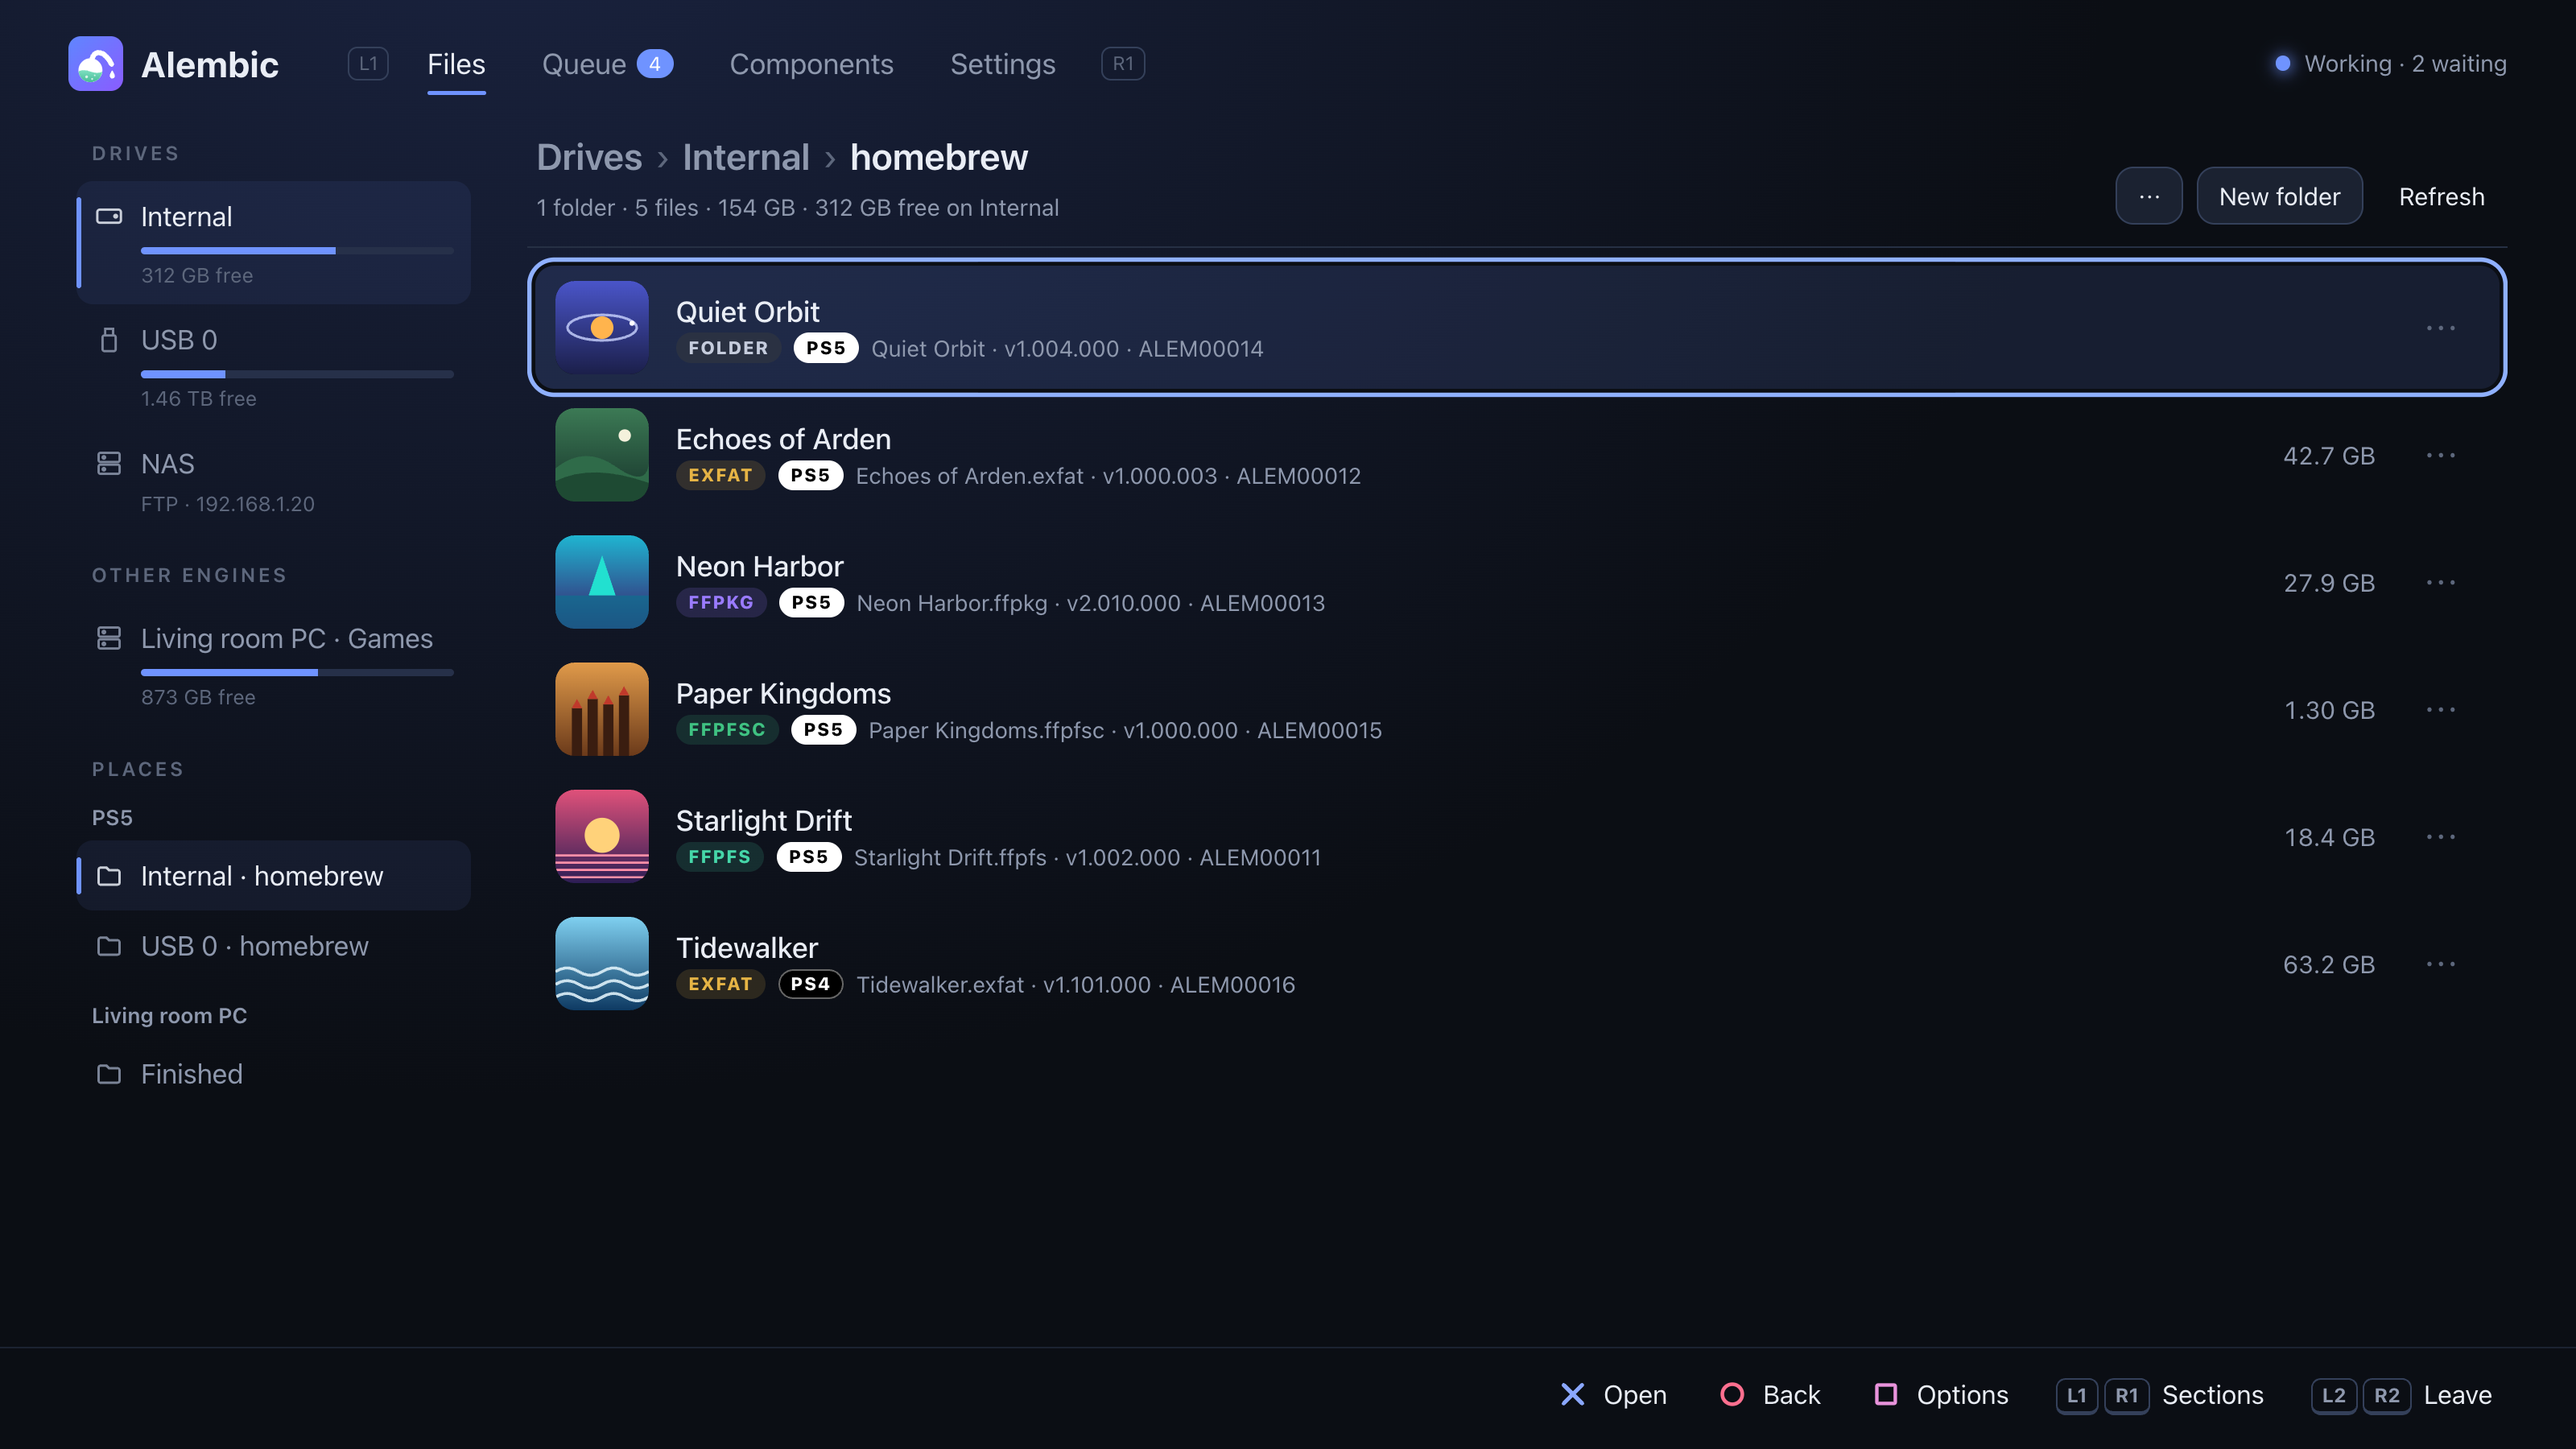
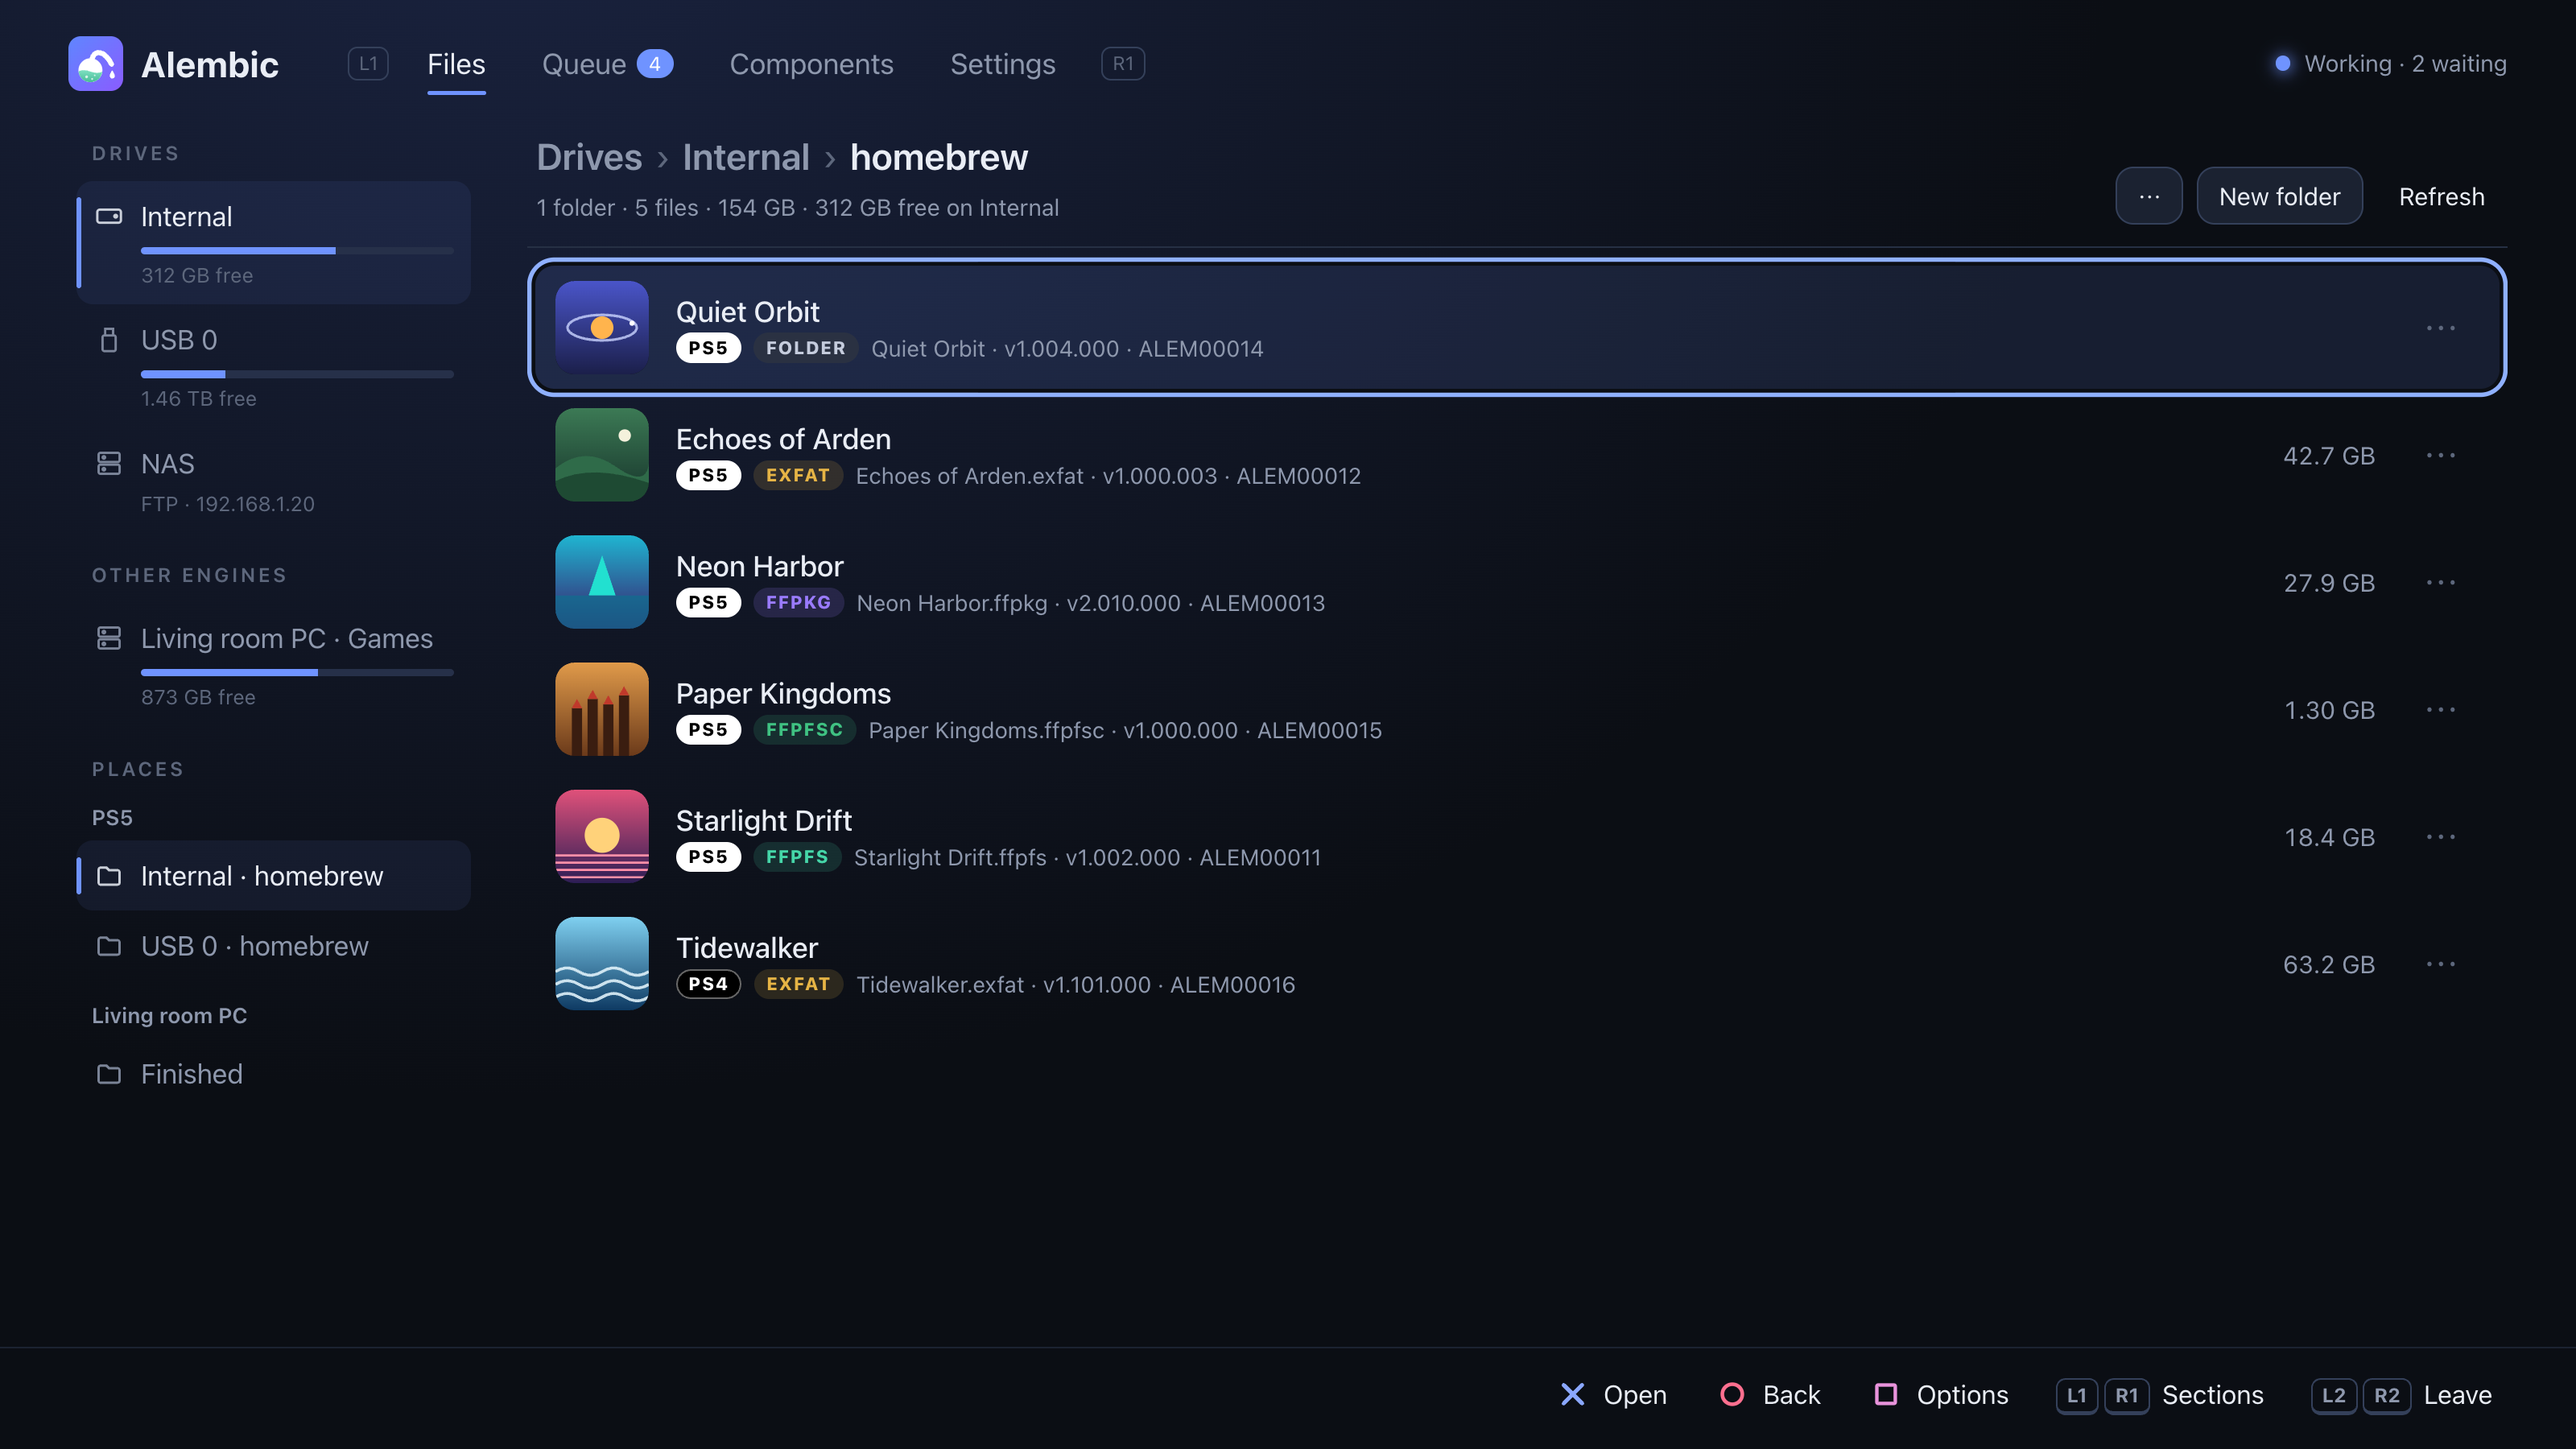
Page and app: the platform pill first, and on the Convert panel too
The PS4/PS5 pill now leads the line on file rows and queue cards, and
shows beside the file name in the Convert dialog's game panel (page:
a shared PlatformPill component). Screenshots remade.

diff --git a/src/engine/web/src/dialogs/ConvertDialog.tsx b/src/engine/web/src/dialogs/ConvertDialog.tsx
@@ -5,6 +5,7 @@ import { useEffect, useState } from "preact/hooks";
 import type { Entry, Inspect, Plan, Job } from "../api/types";
 import { api } from "../api/client";
 import { cachedMeta } from "../api/meta";
+import { PlatformPill } from "../components/PlatformPill";
 import { info, peers, locations } from "../state/engine";
 import { rootOf, ftpOf, driveName, shownPath, peerDriveOf, hereName } from "../state/paths";
 import { refreshJobs } from "../state/jobs";
@@ -258,7 +259,7 @@ function Convert(props: { entry: Entry; ctl: Control }) {
         <div class="side">
           <div class="head">
             <EntryIco entry={entry} meta={m} />
-            <div style="min-width:0"><b>{m && m.title ? m.title : entry.name}</b><div class="muted mono">{m && m.title ? entry.name : ""}</div></div>
+            <div style="min-width:0"><b>{m && m.title ? m.title : entry.name}</b><div class="muted ellip"><PlatformPill meta={m} /><span class="mono">{m && m.title ? entry.name : ""}</span></div></div>
           </div>
           <div class="facts">
             {problem ? [<div>{t("Problem")}</div>, <div class="err">{problem}</div>]

diff --git a/src/engine/web/src/pages/files/FileList.tsx b/src/engine/web/src/pages/files/FileList.tsx
@@ -9,6 +9,7 @@ import { base, bytes, date } from "../../lib/format";
 import { t } from "../../lib/i18n";
 import { ICONS, EntryIco } from "../../components/Icons";
 import { useMeta } from "../../hooks/useMeta";
+import { PlatformPill } from "../../components/PlatformPill";
 import { openConvert } from "../../dialogs/ConvertDialog";
 import { browse } from "./browse";
 import { openActions } from "./actions";
@@ -37,8 +38,8 @@ function Row(props: { e: Entry; top: boolean }) {
         <div class="t ellip" title={title || e.name}>{gone ? gone.name + " · " + base(e.path) : top ? driveName(e.path) : title || e.name}</div>
         <div class="s ellip">
           {m ? [
+            <PlatformPill meta={m} />,
             <span class={"fmt " + (e.game ? "folder" : e.kind)}>{e.game ? t("FOLDER") : KIND_LABEL[e.kind] || ""}</span>,
-            m.platform ? <span class={"fmt " + m.platform}>{m.platform.toUpperCase()}</span> : null,
             [m.title ? e.name : "", m.version ? "v" + m.version.replace(/^0+(?=\d)/, "") : "", m.title_id].filter(Boolean).join("  ·  "),
           ] : plain}
         </div>

diff --git a/src/engine/web/src/pages/queue/JobCard.tsx b/src/engine/web/src/pages/queue/JobCard.tsx
@@ -3,6 +3,7 @@
 import { useEffect, useState } from "preact/hooks";
 import type { Job, Meta } from "../../api/types";
 import { getMeta, iconUrl } from "../../api/meta";
+import { PlatformPill } from "../../components/PlatformPill";
 import { isActive, jobKey, rateOf } from "../../state/jobs";
 import { shownPath } from "../../state/paths";
 import { CONVERTIBLE, KIND_LABEL } from "../../lib/kinds";
@@ -63,7 +64,7 @@ export function JobCard(props: { j: Job }) {
         <Ico kind={conv ? kind : "folder"} label={KIND_LABEL[kind]} icon={m && m.icon ? iconUrl({ path: m.from, mtime: 0 }) : null} />
         <div style="min-width:0;flex:1">
           <div class="ttl ellip">{m && m.title ? m.title : jt.title}</div>
-          {m ? <div class="s ellip">{m.platform ? <span class={"fmt " + m.platform}>{m.platform.toUpperCase()}</span> : null}{sub}</div> : null}
+          {m ? <div class="s ellip"><PlatformPill meta={m} />{sub}</div> : null}
           <div class="to mono ellip">{jt.to}</div>
         </div>
         <span class={"state " + j.state}>{t(j.state)}</span>

diff --git a/src/engine/web/src/components/PlatformPill.tsx b/src/engine/web/src/components/PlatformPill.tsx
@@ -1,0 +1,9 @@
+// SPDX-License-Identifier: GPL-3.0-or-later
+// A game's platform: PS5 (white, black text) or PS4 (black, white text).
+// Nothing for anything else (no param.json or param.sfo, or an older engine).
+import type { Meta } from "../api/types";
+
+export function PlatformPill(props: { meta: Meta | null | undefined }) {
+  const p = props.meta && props.meta.platform;
+  return p === "ps4" || p === "ps5" ? <span class={"fmt " + p}>{p.toUpperCase()}</span> : null;
+}

diff --git a/app/src/app/files.cpp b/app/src/app/files.cpp
@@ -392,9 +392,10 @@ void FilesPage::list(Ui& ui, App& app, const Rect& area) {
                                 : top ? app.drive_name(e.path) : (m && !m->title.empty() ? m->title : e.name);
             draw::text_fit(ui, Face::regular, title, text_x, draw::baseline(t_cy, ts), ts, tw, style::text);
             if (m) {
-                float pw = draw::fmt_pill(ui, e.game ? "folder" : e.kind, e.game ? t("FOLDER") : kind_label(e.kind),
-                                          text_x, s_cy);
-                if (const float plat = draw::platform_pill(ui, m->platform, text_x + pw + 0.45f * R, s_cy)) pw += 0.45f * R + plat;
+                float pw = draw::platform_pill(ui, m->platform, text_x, s_cy);
+                if (pw) pw += 0.45f * R;
+                pw += draw::fmt_pill(ui, e.game ? "folder" : e.kind, e.game ? t("FOLDER") : kind_label(e.kind), text_x + pw,
+                                     s_cy);
                 std::vector<std::string> bits;
                 if (!m->title.empty()) bits.push_back(e.name);
                 if (!m->version.empty()) bits.push_back("v" + version_text(m->version));

diff --git a/app/src/app/actions.cpp b/app/src/app/actions.cpp
@@ -906,9 +906,14 @@ public:
             const float hx = ic.x + ic.w + 0.9f * R, hw = pw - ic.w - 0.9f * R;
             draw::text_fit(ui, Face::semibold, m && !m->title.empty() ? m->title : entry.name, hx,
                            draw::baseline(ic.cy() - 0.7f * R, 1.05f * R), 1.05f * R, hw, style::text);
-            if (m && !m->title.empty())
-                draw::text_fit(ui, Face::mono, entry.name, hx, draw::baseline(ic.cy() + 0.75f * R, 0.85f * R), 0.85f * R, hw,
-                               muted);
+            if (m) {
+                // The platform pill, then the file name under the title.
+                float px = draw::platform_pill(ui, m->platform, hx, ic.cy() + 0.75f * R);
+                if (px) px += 0.45f * R;
+                if (!m->title.empty())
+                    draw::text_fit(ui, Face::mono, entry.name, hx + px, draw::baseline(ic.cy() + 0.75f * R, 0.85f * R),
+                                   0.85f * R, hw - px, muted);
+            }
             yy += 3.6f * R + 0.6f * R;
             std::vector<Fact> rows;
             if (!problem.empty())
